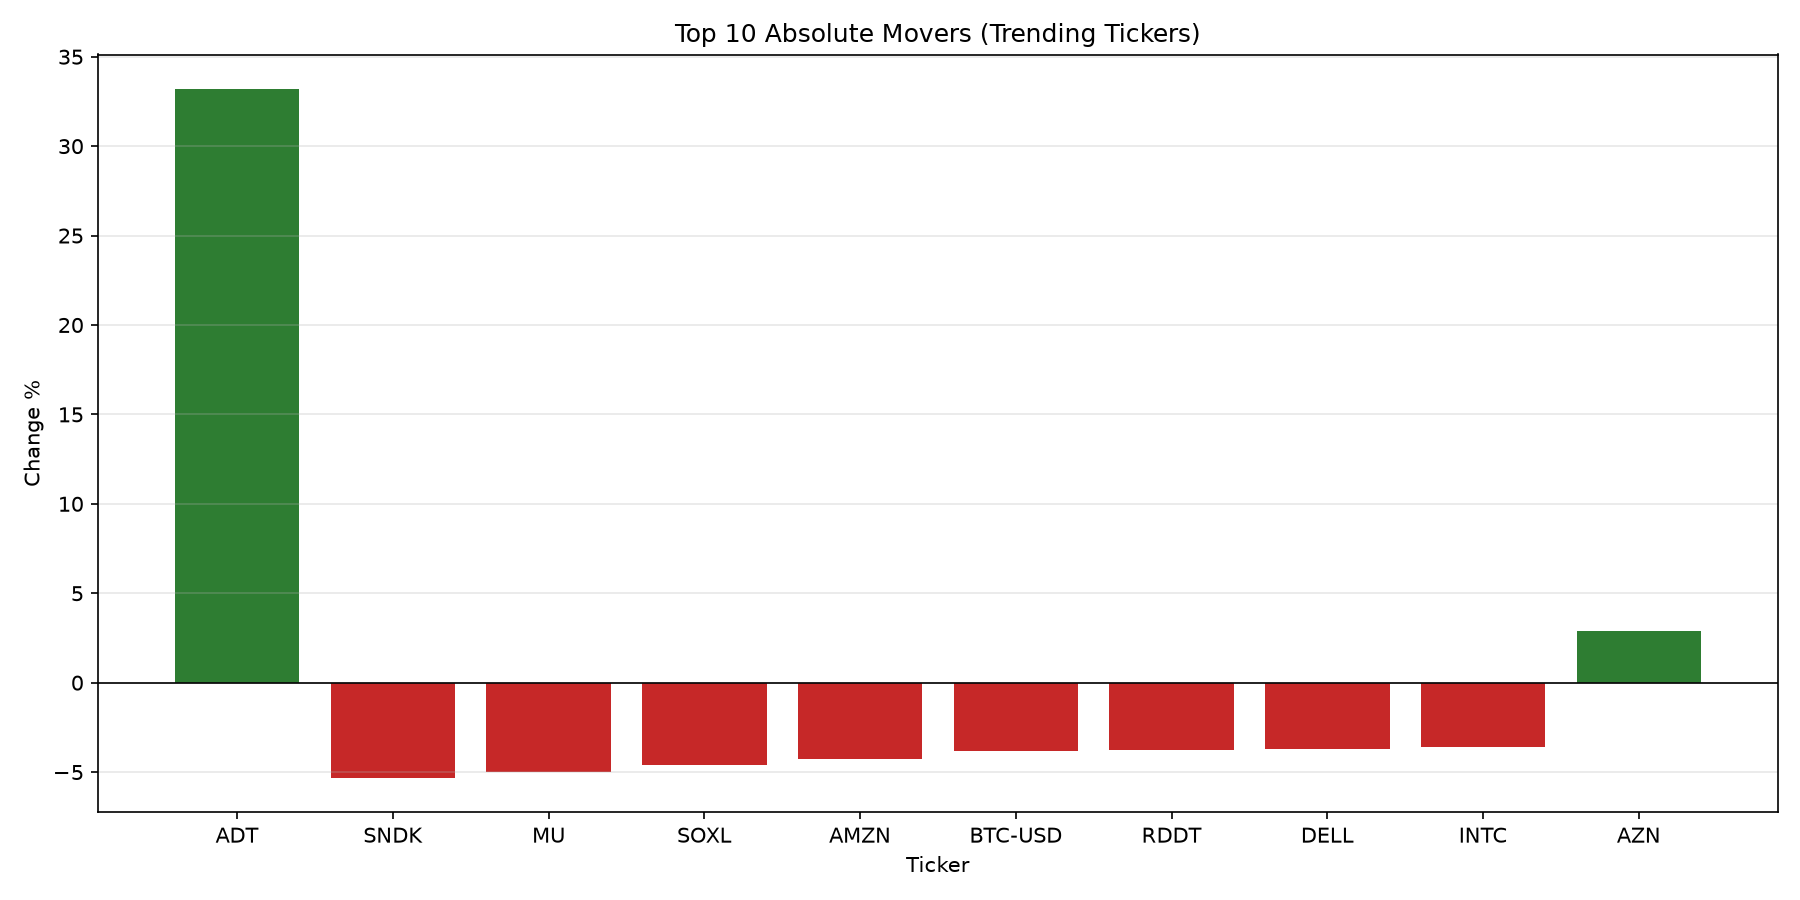
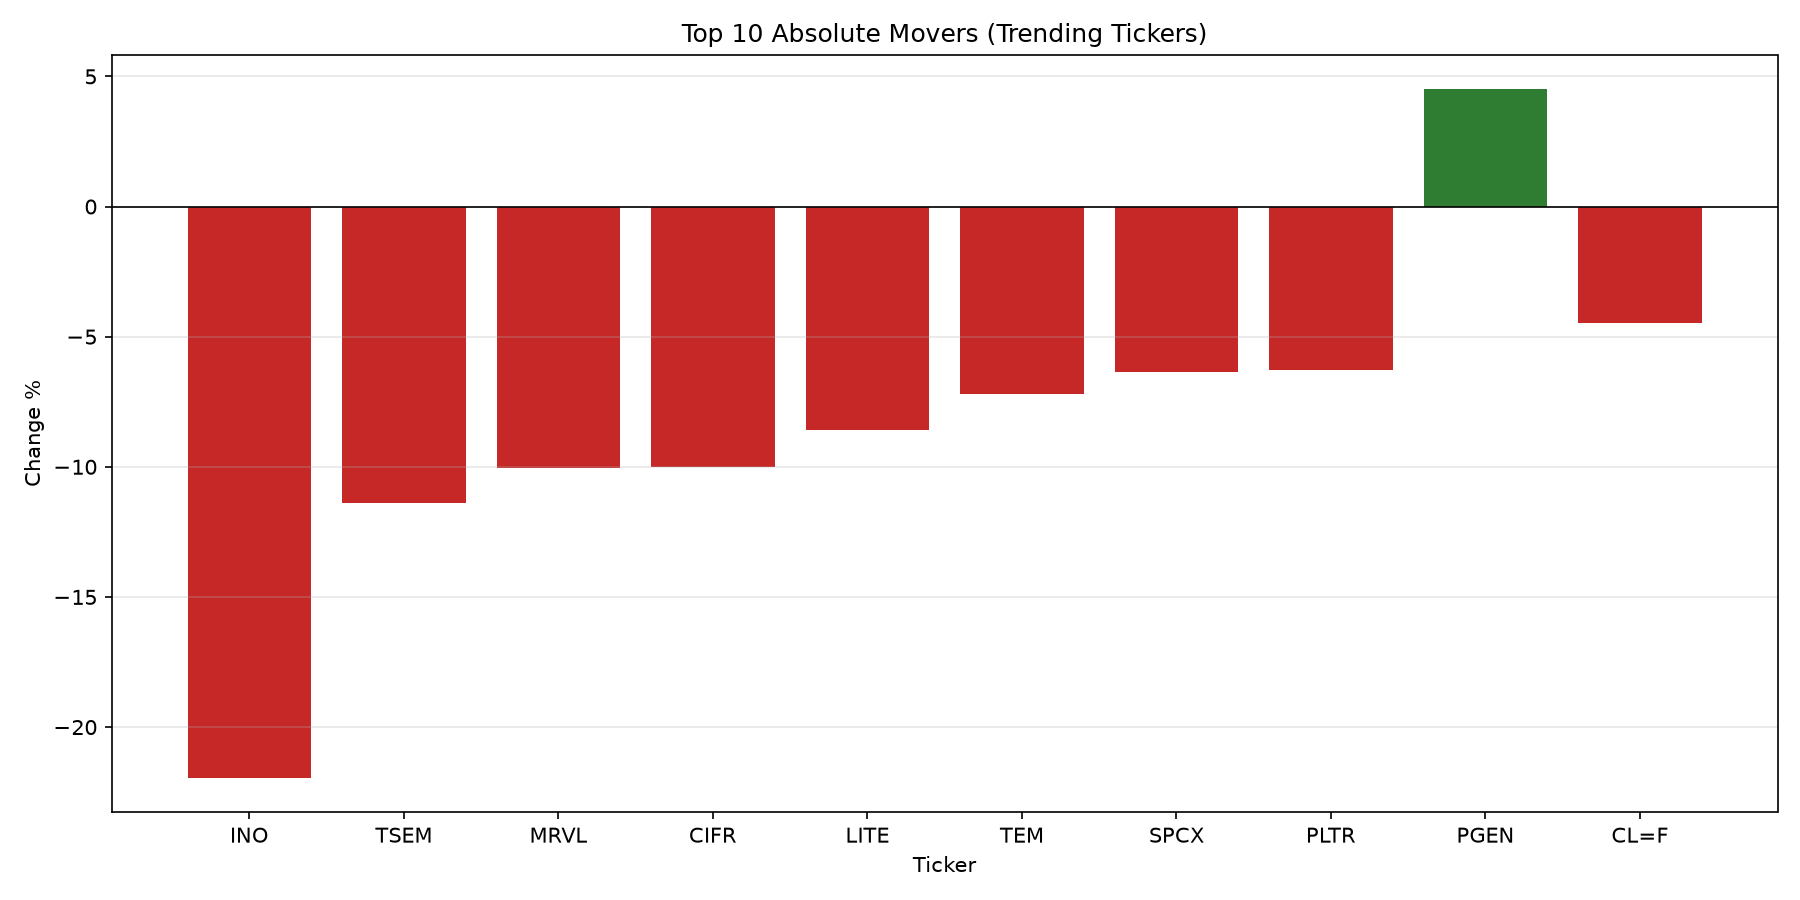
chore: daily metrics report update

diff --git a/README.md b/README.md
@@ -1,7 +1,7 @@
 # AI-Powered Real-Time Business Metrics Aggregator
 
 <!-- LAST_UPDATED_BADGE_START -->
-![Last Updated](https://img.shields.io/badge/Last%20Updated-2026--10--30%2013%3A09%20UTC-blue)
+![Last Updated](https://img.shields.io/badge/Last%20Updated-2026--11--02%2013%3A10%20UTC-blue)
 <!-- LAST_UPDATED_BADGE_END -->
 
 
@@ -146,27 +146,27 @@ This project demonstrates a full pipeline for ingesting, transforming, and analy
 <!-- DAILY_REPORT_START -->
 ## Daily Automated Market Summary
 
-- Last refresh (UTC): **2026-10-30 13:09:57**
+- Last refresh (UTC): **2026-11-02 13:10:25**
 - Tickers tracked: **20**
-- Average change: **-0.29%**
-- Median change: **-1.98%**
-- Top gainer: **ADT (+33.20%)**
-- Top loser: **SNDK (-5.32%)**
+- Average change: **-4.64%**
+- Median change: **-4.26%**
+- Top gainer: **PGEN (+4.52%)**
+- Top loser: **INO (-21.95%)**
 
 ### Top Movers
 
 | Symbol | Name | Price | Change % |
 |---|---|---:|---:|
-| ADT | ADT Inc. | 9.87 | +33.20% |
-| AZN | AstraZeneca PLC | 174.40 | +2.88% |
-| ABBV | AbbVie Inc. | 290.79 | +1.68% |
-| CVX | Chevron Corporation | 231.46 | +0.99% |
-| XOM | ExxonMobil Holdings Corporation | 183.29 | +0.70% |
-| NVDA | NVIDIA Corporation | 213.66 | -0.80% |
-| SPCX | Space Exploration Technologies  | 143.89 | -0.92% |
-| QQQ | Invesco QQQ Trust, Series 1 | 715.34 | -1.42% |
-| RBLX | Roblox Corporation | 52.46 | -1.54% |
-| RIVN | Rivian Automotive, Inc. | 11.45 | -1.89% |
+| PGEN | Precigen, Inc. | 6.94 | +4.52% |
+| EVGO | EVgo Inc. | 1.26 | +1.61% |
+| AXSM | Axsome Therapeutics, Inc. | 144.43 | +0.68% |
+| EL | Estee Lauder Companies, Inc. (T | 109.23 | +0.39% |
+| MAR | Marriott International | 399.30 | -0.09% |
+| ECHO | EchoStar Corporation | 96.94 | -0.74% |
+| CHKP | Check Point Software Technologi | 152.11 | -0.91% |
+| BABA | Alibaba Group Holding Limited | 98.04 | -1.51% |
+| QURE | uniQure N.V. | 24.83 | -1.86% |
+| NVDA | NVIDIA Corporation | 204.64 | -4.22% |
 
 ### Daily Visuals
 
